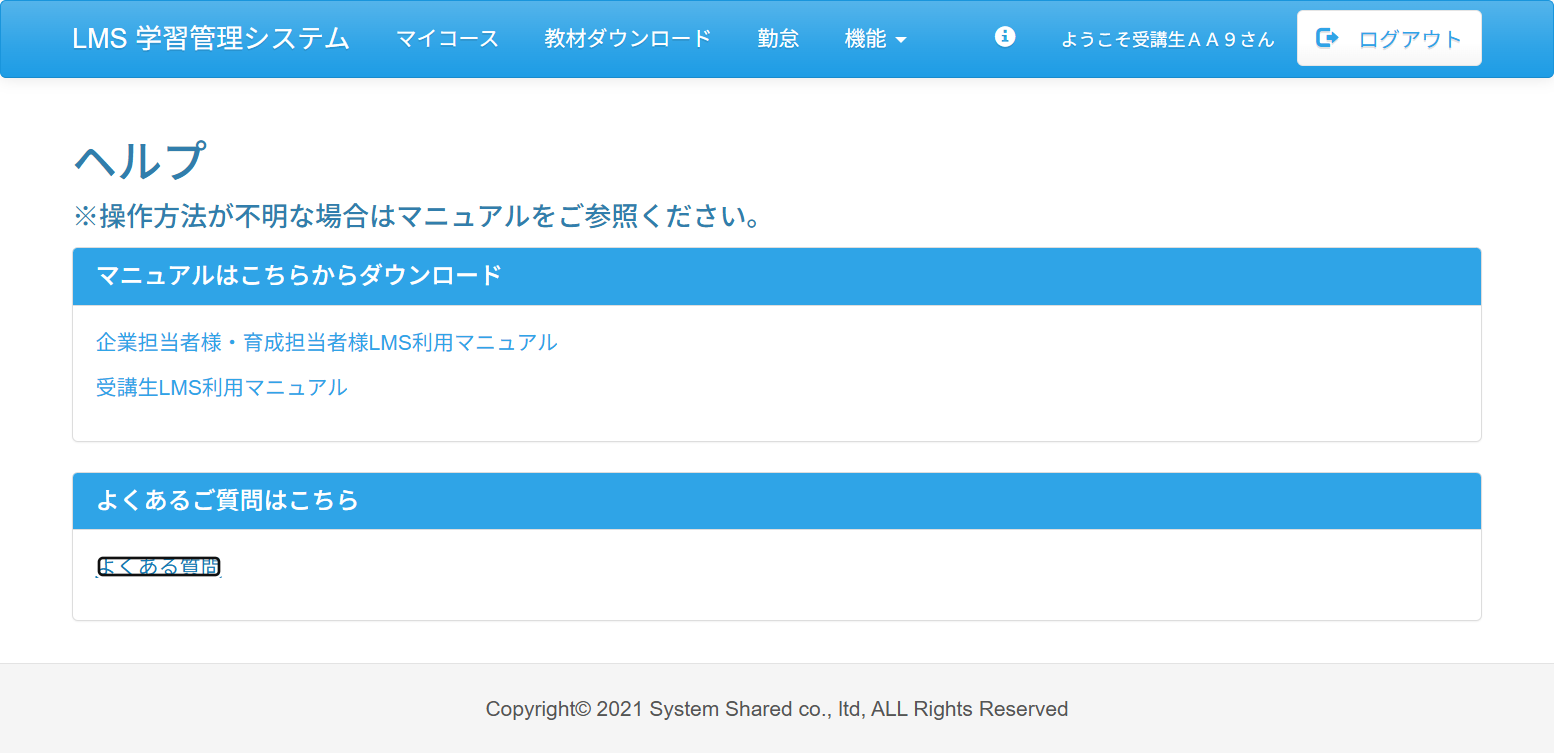
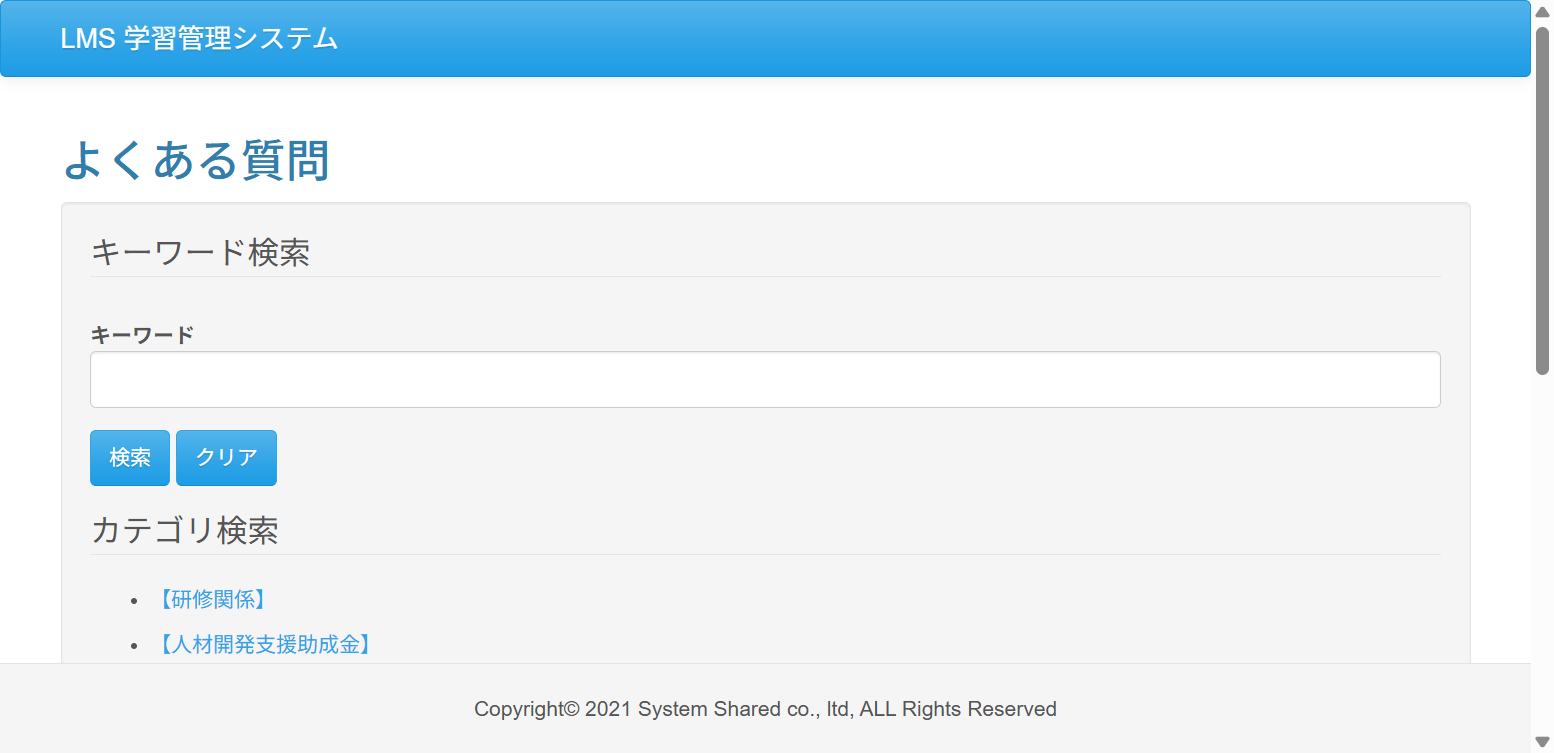
fix：直井 Case.04 commit 別タブで開いたよくある質問ページに切り替えて検証をするように変更

diff --git a/test_code_creation_name/src/test/java/jp/co/sss/lms/ct/f02_faq/Case04.java b/test_code_creation_name/src/test/java/jp/co/sss/lms/ct/f02_faq/Case04.java
@@ -3,6 +3,8 @@ package jp.co.sss.lms.ct.f02_faq;
 import static jp.co.sss.lms.ct.util.WebDriverUtils.*;
 import static org.junit.jupiter.api.Assertions.*;
 
+import java.util.Set;
+
 import org.junit.jupiter.api.AfterAll;
 import org.junit.jupiter.api.BeforeAll;
 import org.junit.jupiter.api.DisplayName;
@@ -88,8 +90,16 @@ public class Case04 {
 		//
 		webDriver.findElement(By.cssSelector("a[href$='/faq']")).click();
 
+		//クリック前のタブIDを取得
+		String originalWindow = webDriver.getWindowHandle();
+		// ブラウザで開いているすべてのタブID一覧を取得し、元のタブを削除
+		Set<String> handles = webDriver.getWindowHandles();
+		handles.remove(originalWindow);
+		//新しいタブへ操作を切り替える
+		webDriver.switchTo().window(handles.iterator().next());
+
 		//よくある質問ページを別タブで開けたか
-		assertEquals("ヘルプ | LMS", webDriver.getTitle());
+		assertEquals("よくある質問 | LMS", webDriver.getTitle());
 		WebDriverUtils.getEvidence(new Object() {
 		}, "question_page");
 	}
